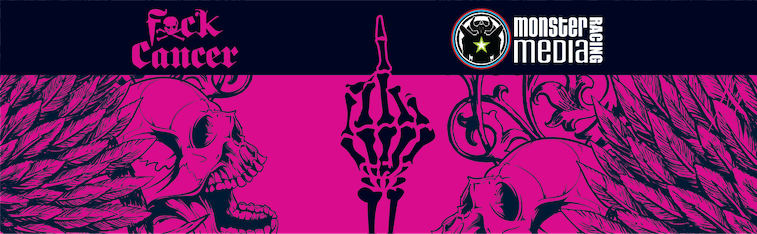
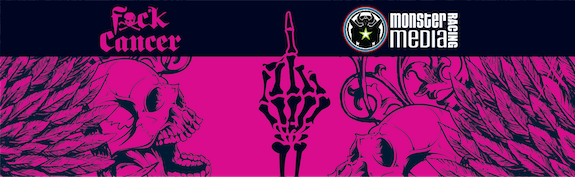
compress FXCK image headers

diff --git a/_pages/fxck.md b/_pages/fxck.md
@@ -8,11 +8,11 @@ permalink: /fxck/
 author_profile: false
 comments: false
 header:
-    image: /assets/images/2019/02/13/FXCK-Cancer-Triathlon-Team-2019-Header.png            # Twitter (use 'overlay_image')
-    overlay_image: /assets/images/2019/02/13/FXCK-Cancer-Triathlon-Team-2019-Header.png    # Article header at 2048x768
+    image: /assets/images/2019/02/13/FXCK-Cancer-Triathlon-Team-2019-Header.jpg            # Twitter (use 'overlay_image')
+    overlay_image: /assets/images/2019/02/13/FXCK-Cancer-Triathlon-Team-2019-Header.jpg    # Article header at 2048x768
     overlay_filter: 0.15
     show_overlay_excerpt: false
-    teaser: /assets/images/2019/02/13/FXCK-Cancer-Triathlon-Team-2019-Header-Twitter.png   # Shrink image to 575x216
+    teaser: /assets/images/2019/02/13/FXCK-Cancer-Triathlon-Team-2019-Header-Twitter.jpg   # Shrink image to 575x216
     caption: "Photo credit: [**Fxck Cancer Triathlon Team**](https://www.fxckcancer.org/TriTeam/)"
 ---
 <figure class="align-left"><img src="{{ '/assets/images/2019/01/01/fxck-2019-256.jpg' | relative_url }}" alt="Justin Rummel profile pic" /></figure>## 2019 Update
